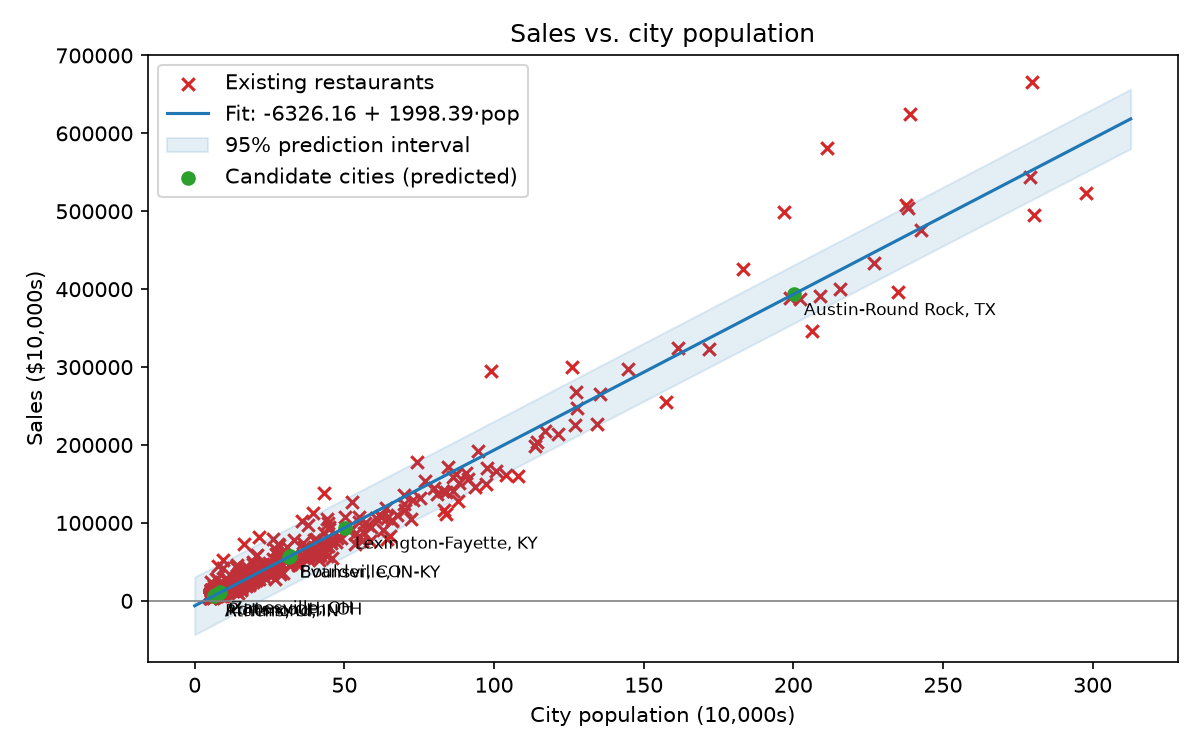
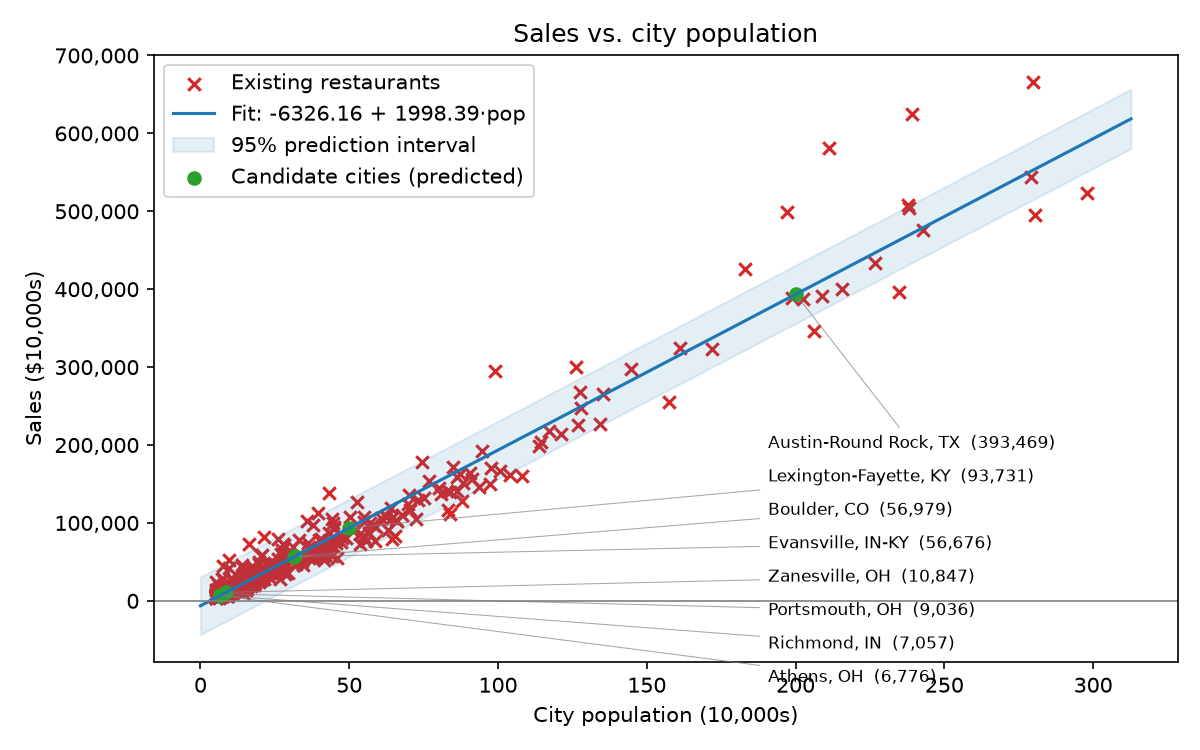
Improve plot readability; add real-data Quick start

diff --git a/src/restaurant_expansion/analysis.py b/src/restaurant_expansion/analysis.py
@@ -7,6 +7,7 @@ import matplotlib
 
 matplotlib.use("Agg")
 import matplotlib.pyplot as plt
+from matplotlib.ticker import FuncFormatter
 import numpy as np
 import pandas as pd
 
@@ -38,6 +39,37 @@ def rank_candidates(model: LinearRegression, cand: pd.DataFrame, target: str = "
     return out
 
 
+def _thousands(value, _pos=None):
+    """Tick formatter: 700000 -> '700,000'."""
+    return f"{value:,.0f}"
+
+
+def _label_points(ax, cand, pred_col):
+    """Label candidate cities, choosing a layout that stays readable.
+
+    If candidates are spread out, labels sit next to their points. If any two are
+    close together (typical of real data, with many small cities), the names would
+    overprint, so they are stacked in a column with thin leader lines instead.
+    """
+    xs = np.sort(cand["population"].to_numpy(dtype=float))
+    span = max(xs.max() - xs.min(), 1e-9)
+    crowded = len(xs) > 1 and np.min(np.diff(xs)) / span < 0.04
+    if not crowded:
+        for _, r in cand.iterrows():
+            ax.annotate(r["city"], (r["population"], r[pred_col]),
+                        textcoords="offset points", xytext=(5, -10), fontsize=8)
+        return
+    n = len(cand)
+    step = min(0.055, 0.45 / max(n, 1))
+    for i, (_, r) in enumerate(cand.sort_values("population", ascending=False).iterrows()):
+        ax.annotate(
+            f"{r['city']}  ({r[pred_col]:,.0f})", (r["population"], r[pred_col]),
+            xycoords="data", textcoords="axes fraction",
+            xytext=(0.60, 0.36 - i * step), fontsize=8, ha="left", va="center",
+            arrowprops={"arrowstyle": "-", "color": "gray", "lw": 0.5, "alpha": 0.7},
+        )
+
+
 def plot_fit(train, cand_ranked, model, path, target="profit"):
     pred = f"predicted_{target}"
     fig, ax = plt.subplots(figsize=(8, 5))
@@ -48,14 +80,14 @@ def plot_fit(train, cand_ranked, model, path, target="profit"):
     ax.fill_between(xs, lo, hi, color="tab:blue", alpha=0.12, label="95% prediction interval")
     ax.scatter(cand_ranked["population"], cand_ranked[pred],
                c="tab:green", marker="o", label="Candidate cities (predicted)")
-    for _, r in cand_ranked.iterrows():
-        ax.annotate(r["city"], (r["population"], r[pred]),
-                    textcoords="offset points", xytext=(5, -10), fontsize=8)
+    _label_points(ax, cand_ranked, pred)
     ax.axhline(0, color="gray", lw=0.8)
     ax.set_xlabel("City population (10,000s)")
     ax.set_ylabel(f"{target.capitalize()} ($10,000s)")
     ax.set_title(f"{target.capitalize()} vs. city population")
-    ax.legend()
+    ax.xaxis.set_major_formatter(FuncFormatter(_thousands))
+    ax.yaxis.set_major_formatter(FuncFormatter(_thousands))
+    ax.legend(loc="upper left")
     fig.tight_layout()
     fig.savefig(path, dpi=150)
     plt.close(fig)

diff --git a/src/restaurant_expansion/evaluation.py b/src/restaurant_expansion/evaluation.py
@@ -12,6 +12,7 @@ import matplotlib
 
 matplotlib.use("Agg")
 import matplotlib.pyplot as plt
+from matplotlib.ticker import FuncFormatter, MaxNLocator
 import numpy as np
 import pandas as pd
 from scipy import stats
@@ -99,6 +100,10 @@ def residual_diagnostics(model: LinearRegression, x, y) -> dict:
     }
 
 
+def _thousands(value, _pos=None):
+    return f"{value:,.0f}"
+
+
 def plot_residuals(model: LinearRegression, x, y, path, target: str = "profit") -> None:
     x = np.asarray(x, dtype=float).ravel()
     y = np.asarray(y, dtype=float).ravel()
@@ -113,6 +118,12 @@ def plot_residuals(model: LinearRegression, x, y, path, target: str = "profit") 
     axes[1].set(xlabel="Residual", ylabel="Count", title="Residual distribution")
     stats.probplot(resid, dist="norm", plot=axes[2])
     axes[2].set_title("Normal Q-Q plot")
+    for ax in (axes[0], axes[2]):
+        ax.yaxis.set_major_formatter(FuncFormatter(_thousands))
+    axes[0].xaxis.set_major_locator(MaxNLocator(5))
+    axes[0].xaxis.set_major_formatter(FuncFormatter(_thousands))
+    axes[1].xaxis.set_major_locator(MaxNLocator(5))
+    axes[1].xaxis.set_major_formatter(FuncFormatter(_thousands))
     fig.tight_layout()
     fig.savefig(path, dpi=150)
     plt.close(fig)

diff --git a/README.md b/README.md
@@ -30,6 +30,12 @@ python -m restaurant_expansion --method gd     # gradient descent + convergence 
 python -m restaurant_expansion --evaluate      # cross-validation + residual diagnostics
 pytest                                         # run tests
 
+# Real data (free Census API key: https://api.census.gov/data/key_signup.html)
+$env:CENSUS_API_KEY = b9bcb413d20f8e8bec2652022eb63065aa1e9de5"        # Windows PowerShell
+# export CENSUS_API_KEY=b9bcb413d20f8e8bec2652022eb63065aa1e9de5        # Mac/Linux
+python -m restaurant_expansion.census --out data/real --naics 7225
+python -m restaurant_expansion --restaurants data/real/restaurants.csv --candidates data/real/candidate_cities.csv --target sales --evaluate --out outputs/real
+
 pip install -r requirements-app.txt
 python -m streamlit run app/streamlit_app.py   # interactive dashboard
 ```
